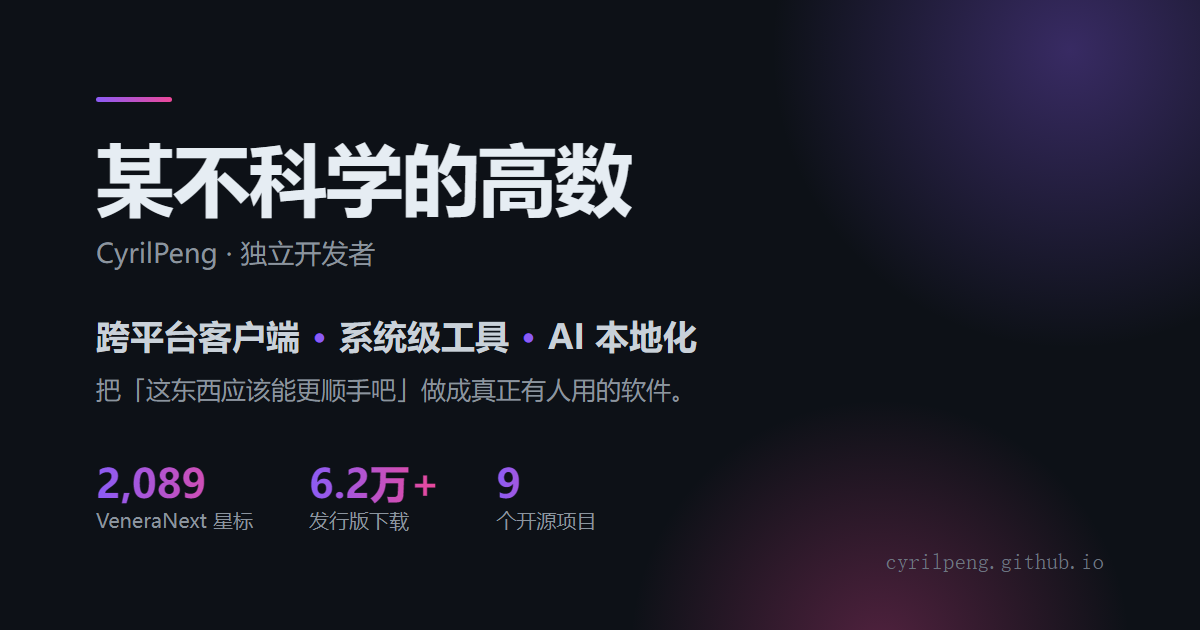
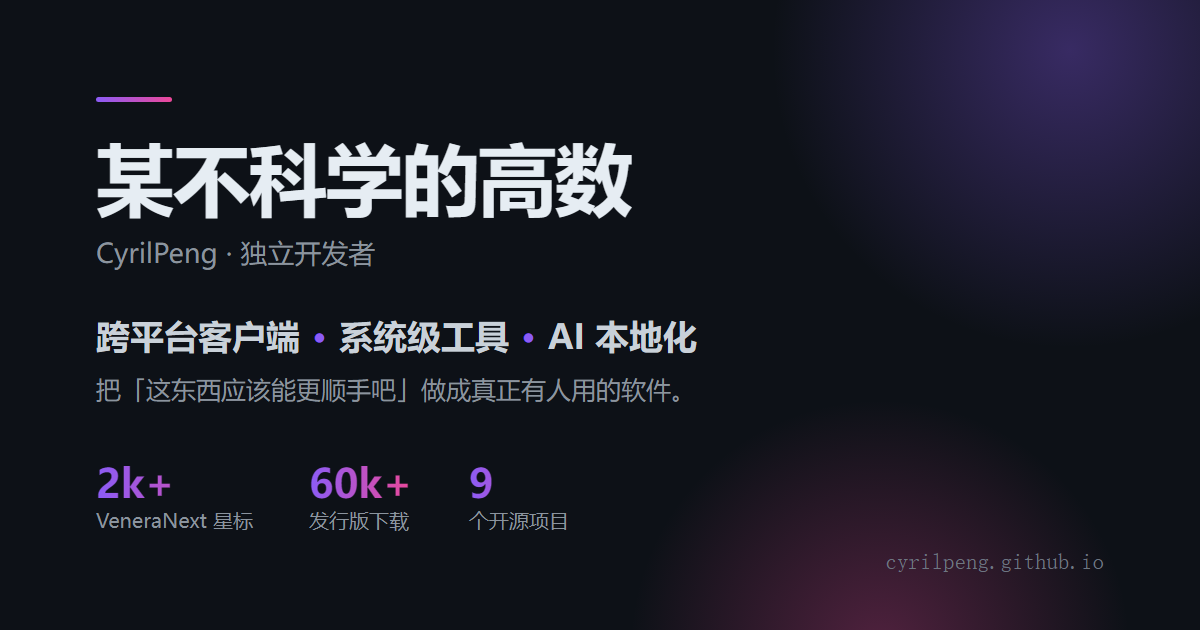
ci: 星标曲线改为每周自动更新
- 新增 scripts/gen-stars.py：翻页抓取 stargazers，重绘 assets/stars.svg 并同步两页的计数文案
- 新增 .github/workflows/stars.yml：每周一 10:00（北京时间）运行，workflow 需 contents: write（仓库默认只读）
- 分享卡改为 2k+ / 60k+ 口径，避免随时间失真
- README 补充站点结构与生成流程

Changed region(s): [[0.2775, 0.7238, 0.4933, 0.8444], [0.0925, 0.7238, 0.185, 0.8143]]

diff --git a/index.html b/index.html
@@ -105,7 +105,7 @@
           </p>
         </div>
         <figure class="chart">
-          <img src="assets/stars.svg" alt="VeneraNext 累计星标增长曲线，2026 年 6 月至今升至 2,089" width="480" height="132" loading="lazy">
+          <img src="assets/stars.svg" alt="VeneraNext 累计星标增长曲线，2026 年 6 月至今，累计 2,089 ★" width="480" height="132" loading="lazy">
           <figcaption>2026 年 6 月至今 · 累计 2,089 ★</figcaption>
         </figure>
       </a>

diff --git a/en.html b/en.html
@@ -105,7 +105,7 @@
           </p>
         </div>
         <figure class="chart">
-          <img src="assets/stars.svg" alt="VeneraNext cumulative stars, June 2026 to now, reaching 2,089" width="480" height="132" loading="lazy">
+          <img src="assets/stars.svg" alt="VeneraNext cumulative stars, Jun 2026 – now · 2,089 ★" width="480" height="132" loading="lazy">
           <figcaption>Jun 2026 – now · 2,089 ★</figcaption>
         </figure>
       </a>

diff --git a/scripts/gen-stars.py b/scripts/gen-stars.py
@@ -1,0 +1,157 @@
+#!/usr/bin/env python3
+"""抓取 VeneraNext 的星标时间序列，重绘 assets/stars.svg，并同步页面里的计数文案。
+
+用法：
+    GH_TOKEN=xxx python scripts/gen-stars.py     # 没有 token 也能跑，只是限额低
+
+依赖：仅标准库。CI 里由 .github/workflows/stars.yml 每周调用。
+"""
+
+import datetime as dt
+import json
+import os
+import re
+import sys
+import urllib.request
+
+REPO = "CyrilPeng/venera-next"
+ROOT = os.path.dirname(os.path.dirname(os.path.abspath(__file__)))
+TOKEN = os.environ.get("GH_TOKEN") or os.environ.get("GITHUB_TOKEN")
+API = "https://api.github.com"
+
+WIDTH, HEIGHT, PAD = 480, 132, 6
+MONTHS_EN = ["Jan", "Feb", "Mar", "Apr", "May", "Jun",
+             "Jul", "Aug", "Sep", "Oct", "Nov", "Dec"]
+
+
+def fetch(url):
+    headers = {
+        "Accept": "application/vnd.github.star+json",
+        "User-Agent": "cyrilpeng-site-generator",
+    }
+    if TOKEN:
+        headers["Authorization"] = "Bearer " + TOKEN
+    req = urllib.request.Request(url, headers=headers)
+    with urllib.request.urlopen(req, timeout=30) as resp:
+        return json.load(resp), resp.headers.get("Link", "")
+
+
+def collect_daily_counts():
+    """翻完所有分页，返回 {date: 当天新增星标数} 和请求次数。"""
+    per_day = {}
+    url = f"{API}/repos/{REPO}/stargazers?per_page=100&page=1"
+    calls = 0
+    while url:
+        batch, link = fetch(url)
+        calls += 1
+        for item in batch:
+            ts = item.get("starred_at")
+            if ts:
+                day = ts[:10]
+                per_day[day] = per_day.get(day, 0) + 1
+        nxt = re.search(r'<([^>]+)>;\s*rel="next"', link)
+        url = nxt.group(1) if nxt else None
+    return per_day, calls
+
+
+def build_series(per_day):
+    """把稀疏的按天数据补齐成连续日累计序列。"""
+    days = sorted(per_day)
+    if not days:
+        return [], 0
+    start = dt.date.fromisoformat(days[0])
+    end = dt.date.fromisoformat(days[-1])
+    series, total, cursor = [], 0, start
+    while cursor <= end:
+        total += per_day.get(cursor.isoformat(), 0)
+        series.append((cursor, total))
+        cursor += dt.timedelta(days=1)
+    return series, total
+
+
+def render_svg(series, total):
+    span_x = (WIDTH - PAD * 2) / max(len(series) - 1, 1)
+    span_y = (HEIGHT - PAD * 2) / max(total, 1)
+    points = [
+        (round(PAD + i * span_x, 1), round(HEIGHT - PAD - v * span_y, 1))
+        for i, (_, v) in enumerate(series)
+    ]
+    line = "M" + " L".join(f"{x} {y}" for x, y in points)
+    right = round(PAD + (len(series) - 1) * span_x, 1)
+    area = f"{line} L{right} {HEIGHT - PAD} L{PAD} {HEIGHT - PAD} Z"
+    last_x, last_y = points[-1]
+
+    return f'''<svg xmlns="http://www.w3.org/2000/svg" width="{WIDTH}" height="{HEIGHT}" viewBox="0 0 {WIDTH} {HEIGHT}" fill="none" role="img" aria-label="累计星标增长曲线">
+  <defs>
+    <linearGradient id="stroke" x1="0" y1="0" x2="{WIDTH}" y2="0" gradientUnits="userSpaceOnUse">
+      <stop stop-color="#8B5CF6"/><stop offset="1" stop-color="#EC4899"/>
+    </linearGradient>
+    <linearGradient id="fill" x1="0" y1="0" x2="0" y2="{HEIGHT}" gradientUnits="userSpaceOnUse">
+      <stop stop-color="#8B5CF6" stop-opacity=".28"/>
+      <stop offset="1" stop-color="#EC4899" stop-opacity="0"/>
+    </linearGradient>
+  </defs>
+  <path d="{area}" fill="url(#fill)"/>
+  <path d="{line}" stroke="url(#stroke)" stroke-width="2.4" stroke-linejoin="round" stroke-linecap="round"/>
+  <circle cx="{last_x}" cy="{last_y}" r="4" fill="#EC4899"/>
+</svg>
+'''
+
+
+def sync_caption(series, total):
+    """把 HTML 里的计数文案和 alt 换成最新值，避免和页面上的实时数字打架。"""
+    start = series[0][0]
+    zh_caption = f"{start.year} 年 {start.month} 月至今 · 累计 {total:,} ★"
+    en_caption = f"{MONTHS_EN[start.month - 1]} {start.year} – now · {total:,} ★"
+    touched = []
+
+    targets = {
+        "index.html": (zh_caption, f"VeneraNext 累计星标增长曲线，{zh_caption.replace(' · ', '，')}"),
+        "en.html": (en_caption, f"VeneraNext cumulative stars, {en_caption}"),
+    }
+
+    for name, (caption, alt) in targets.items():
+        path = os.path.join(ROOT, name)
+        if not os.path.exists(path):
+            continue
+        with open(path, encoding="utf-8") as fh:
+            html = fh.read()
+        before = html
+        html = re.sub(r"<figcaption>.*?</figcaption>",
+                      f"<figcaption>{caption}</figcaption>", html, count=1)
+        html = re.sub(r'(<img src="assets/stars\.svg" alt=")[^"]*(")',
+                      lambda m: m.group(1) + alt + m.group(2), html, count=1)
+        if html != before:
+            with open(path, "w", encoding="utf-8", newline="") as fh:
+                fh.write(html)
+            touched.append(name)
+
+    return touched
+
+
+def main():
+    per_day, calls = collect_daily_counts()
+    series, total = build_series(per_day)
+    if total == 0:
+        print("没有取到任何星标数据，放弃。", file=sys.stderr)
+        return 1
+
+    svg_path = os.path.join(ROOT, "assets", "stars.svg")
+    svg = render_svg(series, total)
+    old = ""
+    if os.path.exists(svg_path):
+        with open(svg_path, encoding="utf-8") as fh:
+            old = fh.read()
+    with open(svg_path, "w", encoding="utf-8", newline="\n") as fh:
+        fh.write(svg)
+
+    touched = sync_caption(series, total)
+    print(f"仓库 {REPO}：{total:,} 颗星，{len(series)} 天，{calls} 次请求")
+    print(f"stars.svg {'已更新' if svg != old else '无变化'}")
+    if touched:
+        print("文案已同步：" + "、".join(touched))
+    return 0
+
+
+if __name__ == "__main__":
+    sys.exit(main())

diff --git a/README.md b/README.md
@@ -1,9 +1,39 @@
 # CyrilPeng.github.io
 
-个人主页源码。纯静态，无框架、无外部依赖。
+个人主页源码。纯静态，无框架、无构建步骤、无外部字体依赖。
 
-- `index.html` — 页面结构
-- `styles.css` — 样式，跟随系统深浅色
-- `assets/icons/` — 与 GitHub 主页 README 共用的一套 SVG 线条图标
+访问：https://cyrilpeng.github.io/ （英文版 `/en.html`）
 
-访问：https://cyrilpeng.github.io/
+## 结构
+
+```
+index.html            中文首页
+en.html               英文首页
+404.html              自定义 404
+styles.css            样式，跟随系统深浅色，支持手动切换
+app.js                主题切换 + 星标数拉取（localStorage 缓存 1 小时）
+assets/
+  icons/              线条图标（与 GitHub 主页 README 共用同一套）
+  og.png              1200×630 社交分享卡
+  stars.svg           VeneraNext 星标增长曲线（脚本生成）
+scripts/gen-stars.py  抓取星标时间序列并重绘曲线
+.github/workflows/    每周自动更新曲线
+```
+
+## 本地改动
+
+直接编辑 HTML / CSS 即可，没有编译环节。提交到 `main` 后 Pages 约 30–60 秒重建。
+
+```bash
+git add -A && git commit -m "..." && git push
+```
+
+## 星标曲线
+
+`assets/stars.svg` 由 `scripts/gen-stars.py` 生成，不要手改。脚本会翻完 stargazers 接口的所有分页，重绘曲线，并同步两个页面里的计数文案。
+
+```bash
+GH_TOKEN=$(gh auth token) python scripts/gen-stars.py
+```
+
+`.github/workflows/stars.yml` 每周一 10:00（北京时间）自动跑一次，有变化才提交。也可以到 Actions 页面手动触发。
